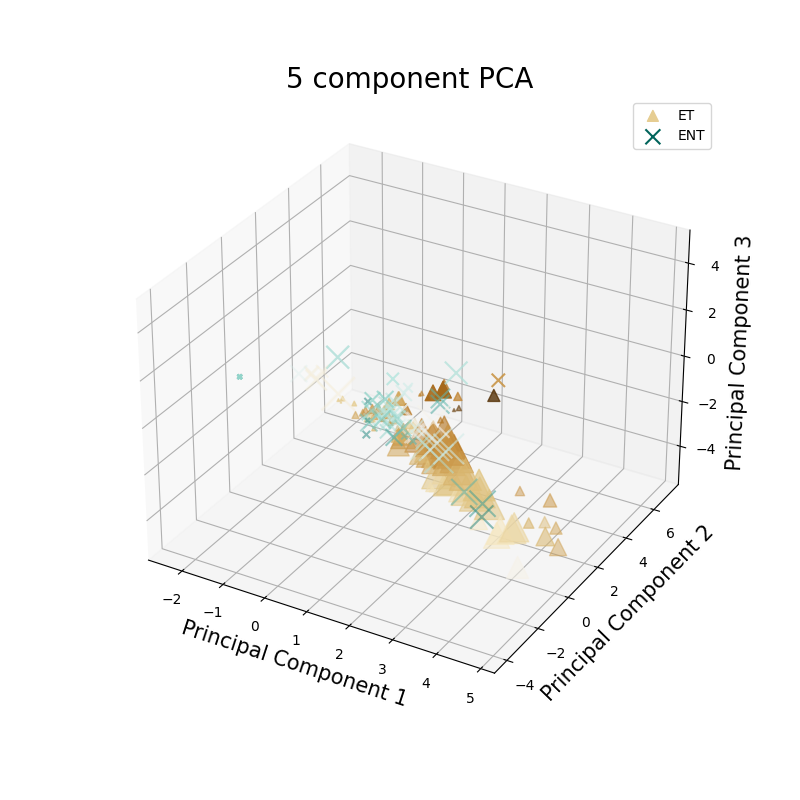
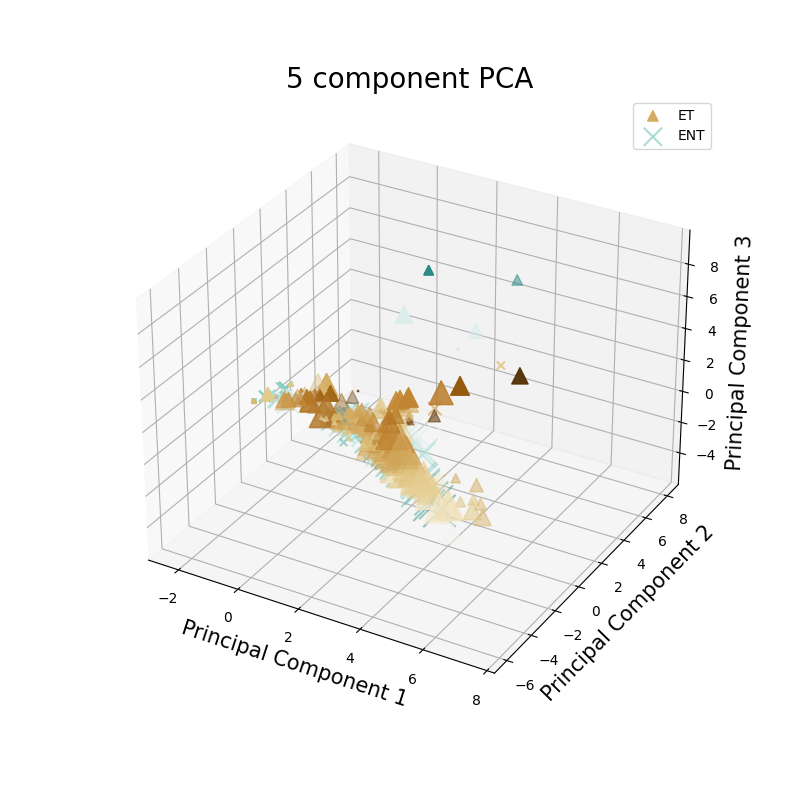
fixed bug

diff --git a/Yiannos/PCA.py b/Yiannos/PCA.py
@@ -10,13 +10,13 @@ df = pd.read_csv('train_set1.csv')
 df = df.loc[df["group"] != "NE"]  # remove NE data-points
 df_new = df
 y = np.unique(df_new.loc[:, 'group'].values, return_inverse=True)[1]
-df_new = df_new.drop(columns=['animal', 'group', 'bf', 'avg_ibi'])  # dropped bf, avg_ibi
+df_new = df_new.drop(columns=['animal', 'group'])  # dropped
 
-features = ['avg_spikes_burst', 'bfr', 'max_spikes_burst',
+features = ['avg_ibi', 'avg_spikes_burst', 'bf', 'bfr', 'max_spikes_burst',
             'max_sync_bf_dist', 'max_sync_coef', 'mean_sync_bf_dist', 'mean_sync_coef',
-            'p_bursting_spikes', 'p_bursting_time', 'sfr', 'sync_n']  # dropped bf, avg_ibi
+            'p_bursting_spikes', 'p_bursting_time', 'sfr', 'sync_n']  # dropped
 
-# df_new["avg_ibi"] = df_new["avg_ibi"].fillna(-5000)
+df_new["avg_ibi"] = df_new["avg_ibi"].fillna(-5000)
 df_new["avg_spikes_burst"] = df_new["avg_spikes_burst"].fillna(-5000)
 df_new["max_spikes_burst"] = df_new["max_spikes_burst"].fillna(-5000)
 df_new["max_sync_bf_dist"] = df_new["max_sync_bf_dist"].fillna(-100)
@@ -24,23 +24,26 @@ df_new["mean_sync_bf_dist"] = df_new["mean_sync_bf_dist"].fillna(-50)
 
 remove = df_new.isna().any(axis=1)
 df_new = df_new.dropna()
-df = df.dropna()
 
 X = df_new.loc[:, features].values
 X = StandardScaler().fit_transform(X)
 y = y[~remove]
 
 
-pca = PCA(n_components=5)
+pca = PCA(n_components=6)
 principalComponents = pca.fit_transform(X)
 principalDf = pd.DataFrame(data=principalComponents,
                            columns=['principal component 1',
                                     'principal component 2',
                                     'principal component 3',
                                     'principal component 4',
-                                    'principal component 5'])
+                                    'principal component 5',
+                                    'principal component 6'])
 
-finalDf = pd.concat([principalDf, df[['group']]], axis=1)
+labels = pd.DataFrame(data=y, columns=['group'])
+labels["group"].replace({0: "ENT", 1: "ET"}, inplace=True)
+
+finalDf = pd.concat([principalDf, labels], axis=1)
 
 fig = plt.figure(figsize=(8, 8))
 ax = fig.add_subplot(111, projection='3d')
@@ -63,8 +66,8 @@ for target, marker in zip(targets, markers):
 ax.legend(targets)
 ax.grid()
 plt.show()
-# plt.savefig('5-component_PCA_bf-avg_ibi_dropped')
+#plt.savefig('5-component_PCA')
 
-display(pd.DataFrame(pca.components_, columns=df_new.columns, index=['PC-1', 'PC-2', 'PC-3', 'PC-4', 'PC-5']).to_string())
+display(pd.DataFrame(pca.components_, columns=df_new.columns, index=['PC-1', 'PC-2', 'PC-3', 'PC-4', 'PC-5', 'PC-6']).to_string())
 print(pca.explained_variance_ratio_)
 

diff --git a/Yiannos/HeatMap_ExtraTrees.py b/Yiannos/HeatMap_ExtraTrees.py
@@ -12,9 +12,9 @@ df = pd.read_csv('train_set1.csv')
 df = df.loc[df["group"] != "NE"]  # remove NE data-points
 df_new = df
 y = np.unique(df_new.loc[:, 'group'].values, return_inverse=True)[1]
-df_new = df_new.drop(columns=['animal', 'group', 'bf', 'avg_ibi'])  # dropped bf, avg_ibi
+df_new = df_new.drop(columns=['animal', 'group'])  # dropped
 
-# df_new["avg_ibi"] = df_new["avg_ibi"].fillna(-5000)
+df_new["avg_ibi"] = df_new["avg_ibi"].fillna(-5000)
 df_new["avg_spikes_burst"] = df_new["avg_spikes_burst"].fillna(-5000)
 df_new["max_spikes_burst"] = df_new["max_spikes_burst"].fillna(-5000)
 df_new["max_sync_bf_dist"] = df_new["max_sync_bf_dist"].fillna(-100)
@@ -22,7 +22,6 @@ df_new["mean_sync_bf_dist"] = df_new["mean_sync_bf_dist"].fillna(-50)
 
 remove = df_new.isna().any(axis=1)
 df_new = df_new.dropna()
-df = df.dropna()
 
 X = StandardScaler().fit_transform(df_new)
 y = pd.DataFrame(y[~remove])
@@ -34,8 +33,8 @@ mask = np.triu(np.ones_like(df_new.corr(), dtype=bool))
 heatmap = sns.heatmap(df_new.corr(), mask=mask, vmin=-1, vmax=1, annot=True)
 heatmap.set_title('Triangle Correlation Heatmap', fontdict={'fontsize': 18}, pad=16)
 
-plt.show()
-# plt.savefig('triangle_heatmap.png', bbox_inches='tight')'''
+#plt.show()
+plt.savefig('triangle_heatmap.png', bbox_inches='tight')'''
 
 
 # Extra Trees
@@ -44,9 +43,9 @@ model.fit(X_train, np.array(y_train).ravel())
 
 print(model.score(X_test, y_test))
 
-fig = plt.figure(figsize=(200, 200))
-_ = tree.plot_tree(model.estimators_[0], feature_names=df_new.columns, class_names=['ENT', 'ET'], filled=True)
-plt.savefig('decision_tree')
+#fig = plt.figure(figsize=(200, 200))
+#_ = tree.plot_tree(model.estimators_[0], feature_names=df_new.columns, class_names=['ENT', 'ET'], filled=True)
+#plt.savefig('decision_tree')
 
 '''feat_importance = pd.Series(model.feature_importances_, index=df_new.columns)
 feat_importance.plot(kind='barh')
